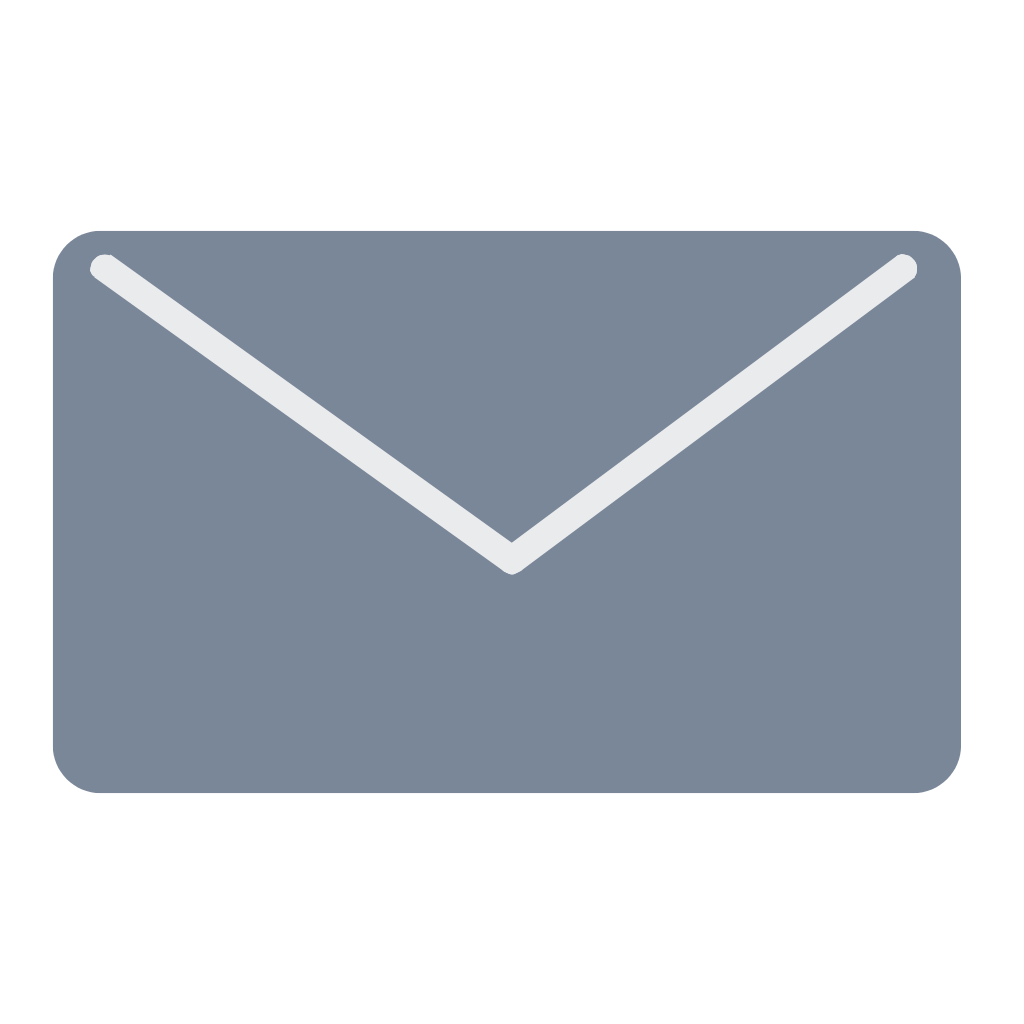
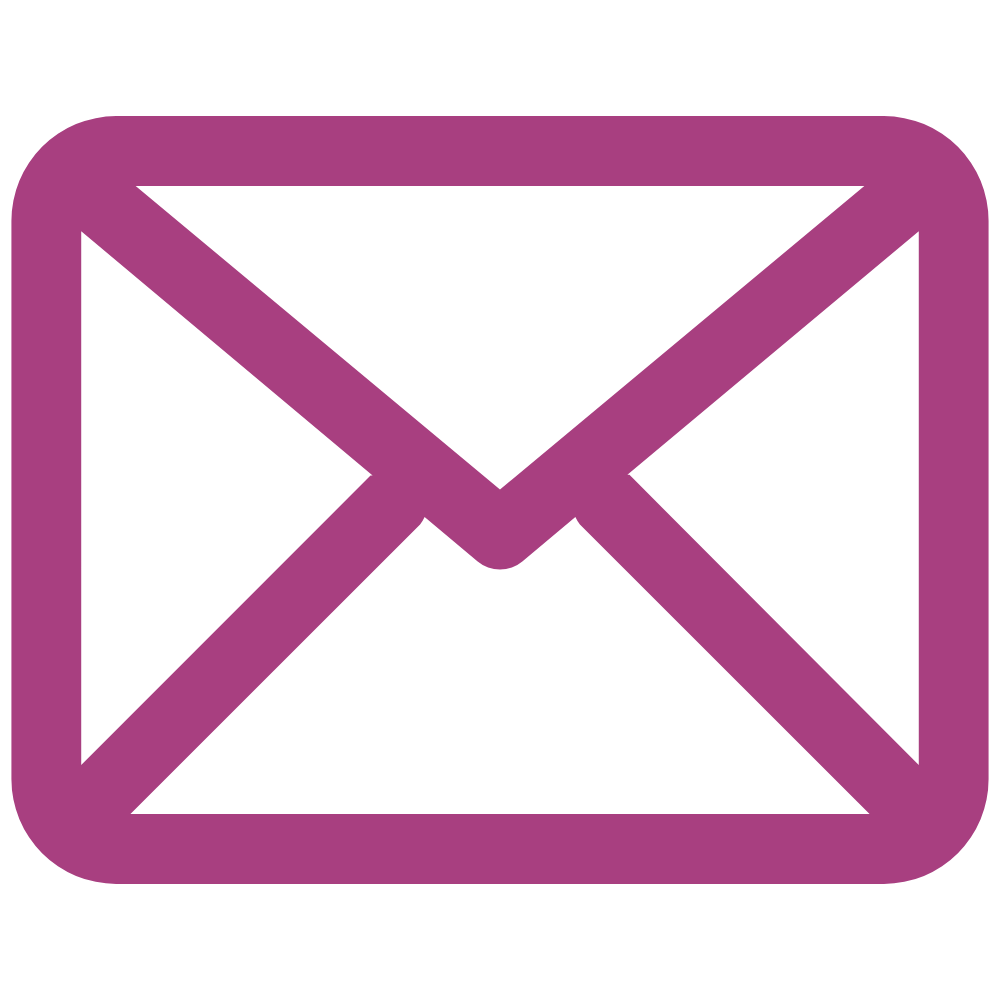
Fixed About me section and added sticky scrolling

diff --git a/src/components/welcome.jsx b/src/components/welcome.jsx
@@ -23,54 +23,53 @@ function Welcome() {
   return (
     <div>
       <CustomHeader />
-      <div className="right-side">
-        <div className="home_background">
-          <div className="main-content">
-            <div className="row_container">
-                <div className="image_wrapper">
-                  <div className="rounded_wrapper">
-                    <img 
-                      src={headshot} 
-                      alt="Personal Headshot"
-                      className="image"
-                    />
+        <div className="right-side">
+          <div className="home_background">
+            <div className="main-content">
+              <section id="about_me">
+                <div className="dark_header">About Me</div>
+                <div className="line"></div>
+                <div className="row_container">
+                  <div className="image_wrapper">
+                    <div className="rounded_wrapper">
+                      <img 
+                        src={headshot} 
+                        alt="Personal Headshot"
+                        className="image"
+                      />
+                    </div>
                   </div>
-                </div>
                   <p>
                     Hello world! My name is <b>Jessica Lin</b>, and welcome to my personal portfolio 
-                    website. I coded this from scratch using JavaScript, React, HTML, and CSS. 
+                    website. I coded this from scratch using JavaScript, React, HTML, and CSS and deployed
+                    it statically using Github pages. This website is best for desktop-sized screens, however it is
+                    fully dynamic for screens of width 150 pixels and greater. 
                     <br />
                     <br />
-                    I am a first-generation <b>software engineer</b> with a liberal arts education 
-                    and an interest in <b>full-stack mobile and web app development</b>. I am currently 
-                    located in Los Angeles, but am open to relocation.
-
-                    I focus on <b>full-stack mobile and web app development</b>, 
-                    building responsive, user-centered products that emphasize usability, 
-                    performance, and clean design. 
+                    I’m a first-generation <b>software engineer</b> studying <b>computer science and business administration at the
+                    University of California, Irvine</b>,  
+                    and am currently based in Los Angeles, California.
                     <br />
                     <br />
-                    I am passionate about creating innovative solutions for complex and meaningful 
-                    problems, and I’m fortunate to have the opportunity to work on these projects 
-                    every day. This website details my experience professionally and personally and 
-                    will give you a glimpse into the things I’ve been working on!
+                    I specialize in <b>full-stack mobile and web app development</b>, with a focus on 
+                    sleek design and high-performance. I feel fortunate that I get to turn ideas into polished, 
+                    intuitive products and <b>tackle complex problems through technical solutions. </b>
+                    This website showcases the professional and personal projects that I have been working on.
                     <br />
+                    <br />
+                    In my freetime, I enjoy keeping myself busy with new hobbies. The list consists of traveling, thrifting, skiing, 
+                    working out, and gaming. Ask me about my crawl from Budapest to Prague!
                     <br />
                     <br />
                   </p>
                 </div >
-              <div className="single_container_55">
-            </div>
-            <div className="row_container">
-                
-                  <br />
-                  <div>
-                  
-                  </div>
-                  <br />
-                  <br />
-                  <br />
-                  <div className="pink_subtitle">About me:</div>
+              </section>
+
+
+              <section id="experience">
+                <div className="dark_header">Experience</div>
+                <div className="line"></div>
+                <div className="row_container">
                   <div className="logo_container">
                     <img
                       src={UtahIcon}
@@ -103,6 +102,7 @@ function Welcome() {
                         JavaScript
                       </div>
                     </div>
+                    
                     <div className="welcome_logo_container">
                       <div className="logo_container">
                         <img src={HTMLIcon} alt="HTML" className="icon" />
@@ -117,7 +117,7 @@ function Welcome() {
                         CSS
                       </div>
                     </div>
-
+                    
                     <br />
                   </div>
                   <br />
@@ -130,7 +130,7 @@ function Welcome() {
                     of I&CS
                   </p>
                   <p>• Accounting Intern - Restaurant and Family Mart</p>
-                <div className="row_container">
+                  <div className="row_container">
                   <p>
                     In my freetime, I enjoy thrifting, gaming, working out, playing
                     poker, and finding new music! Feel free to reach out to me
@@ -141,12 +141,28 @@ function Welcome() {
                     .
                     <br />
                     <br />
-                  </p>
+                    </p>
+                  </div>
                 </div>
-              </div>
+              </section>
+
+
+
+
+              <section id="projects">
+                <div className="dark_header">Projects</div>
+                <div className="line"></div>
+              </section>
+              
+              <section id="contact_me">
+                <div className="dark_header">Contact Me</div>
+                <div className="line"></div>
+              </section>
+            </div>
           </div>
+          
         </div>
-      </div>
+        
       <Footer />
     </div>
   );

diff --git a/src/components/header.jsx b/src/components/header.jsx
@@ -1,11 +1,17 @@
-import Github from "../images/header/github.png";
-import LinkedIn from "../images/header/linkedin.png";
-import JessicaLin from "../images/header/JessicaLin.png";
-
+import email from "../images/header/email.png";
+import github from "../images/header/github.png";
+import linkedin from "../images/header/linkedin.png";
 
 import "../styles/navbar.css"
 
 import { useNavigate } from "react-router-dom";
+
+const sections = [
+  { id: "about_me", label: "About Me" },
+  { id: "experience", label: "Experience" },
+  { id: "projects", label: "Projects" },
+  { id: "contact_me", label: "Contact Me" },
+];
 
 function CustomHeader() {
   const navigate = useNavigate();
@@ -18,6 +24,12 @@ function CustomHeader() {
     navigate("/"); // Navigate to the Welcome page
   };
 
+  const scrollToSection = (id) => {
+    const el = document.getElementById(id);
+    if (!el) return;
+    el.scrollIntoView({ behavior: "smooth", block: "start" });
+  };
+
   return (
     <div>
       <nav className="navbar">
@@ -26,45 +38,34 @@ function CustomHeader() {
           <div className="dark_title">Full Stack Developer</div>
           <div className="dark_title">I build reliable, scalable, and 
             complex web and mobile applications.</div>
-          <p></p>
           <div className="row_container">
-            <div className="navbar-nav-btn-container">
+            <div className="nav-btn-container">
+              {sections.map((section) => (
               <button
-                id="LoadWelcome"
-                className="navbar-nav-btn"
-                onClick={handleWelcomeClick}
-              >About Me
+                key={section.id}
+                className="nav-btn"
+                onClick={() => scrollToSection(section.id)}
+              >
+                {section.label}
               </button>
-              <button
-                id="LoadWelcome"
-                className="navbar-nav-btn"
-                onClick={handleWelcomeClick}
-              >Experience
-              </button>
-              <button className="navbar-nav-btn">Projects</button>
-              <button
-                id="LoadWelcome"
-                className="navbar-nav-btn"
-                onClick={handleWelcomeClick}
-              >Contact Me
-              </button>
+              ))}
             </div>
           </div>
-          <p></p>
+          {/* <p></p> */}
           <div className="row_container">
-            <div className="navbar-nav-icon-container">
-              <button className="navbar-nav-icon">
-                <img src={null} alt="Python" className="icon" />
+            <div className="icon-btn-container">
+              <button className="icon-btn">
+                <img src={email} alt="Email" className="icon" />
               </button>
             </div>
-            <div className="navbar-nav-icon-container">
-              <button className="navbar-nav-icon">
-                <img src={null} alt="Python" className="icon" />
+            <div className="icon-btn-container">
+              <button className="icon-btn">
+                <img src={linkedin} alt="Python" className="icon" />
               </button>
             </div>
-            <div className="navbar-nav-icon-container">
-              <button className="navbar-nav-icon">
-                <img src={null} alt="Python" className="icon" />
+            <div className="icon-btn-container">
+              <button className="icon-btn">
+                <img src={github} alt="Python" className="icon" />
               </button>
             </div>
           </div>

diff --git a/src/styles/navbar.css b/src/styles/navbar.css
@@ -35,35 +35,54 @@
   align-items: center;
 }
 
-.navbar-nav-icon {
-  padding-bottom: 10px;
-  width: 50px;
+.icon-btn-container {
+  margin-left: clamp(0rem, 1.5vw, 2rem);
+  margin-right: clamp(0rem, 1.5vw, 2rem);
 }
 
-.navbar-nav-icon-container {
-  margin: 20px;
+.icon-btn img {
+  height: 100%;
+  object-fit: contain;
+  display: block;
 }
 
-.navbar-nav-btn-container {
+.icon-btn {
+  border: none;
+  background: inherit;
+  padding: 0;
+  margin: 0;
+  line-height: 0;
+  display: flex;
+  justify-content: center;
+  align-items: center;
+  width: clamp(1.5rem, 4vw, 8rem);
+  height: clamp(1.5rem, 4vw, 8rem);
+  display: flex;
+  justify-content: center;
+  align-items: center;
+}
+
+.nav-btn-container {
+  margin: clamp(0rem, 5vw, 1.5rem);
   display: flex;
   flex-direction: column;
   align-items: flex-start;
   width: max-content;
 }
 
-.navbar-nav-btn {
+.nav-btn {
   background: none;
   border: none;
   color: inherit;
-  font-size: clamp(.5rem, 3vw, 1.1rem);
+  /* font-size: clamp(.5rem, 3vw, 1.1rem); */
   cursor: pointer;
   padding: 0;
   padding: 1rem;
-  width: max-content;
+  /* width: max-content; */
   text-align: left;
 }
 
-.navbar-nav-btn:hover {
+.nav-btn:hover {
   color: rgb(152, 152, 152);
   text-decoration: underline;
 }
@@ -79,14 +98,10 @@
     padding-top: 7px;
     width: 120px;
   }
-
-  . {
-    font-size: 11px;
-  }
   
   button {
     padding: 0;
-    padding: 0;
+    margin: 0;
     border: none;
     background: none;
   }

diff --git a/src/styles/text.css b/src/styles/text.css
@@ -20,7 +20,7 @@
   padding-bottom: 20px;
   color: #ff66c4;
   /* font-size: clamp(20px, 4vw, 40px); */
-  font-size: clamp(.8rem, 3vw, 4rem);
+  font-size: clamp(1.5rem, 3vw, 4rem);
   font-family: 'Courier New', Courier, monospace;
   font-weight: 600;
   /* padding-bottom: 5px; */
@@ -32,7 +32,7 @@
   padding-top: 10px;
   padding-bottom: 10px;
   color: #491a37;
-  font-size: clamp(.3rem, 2vw, 2.7rem);
+  font-size: clamp(1rem, 2vw, 2.7rem);
   font-family: 'Courier New', Courier, monospace;
   font-weight: 600;
 }
@@ -44,10 +44,24 @@
   font-size: clamp(.5rem, 3vw, 1rem);
   font-family: 'Courier New', Courier, monospace;
   font-weight: 600;
-  /* padding-bottom: 5px; */
-  /* text-align: left; */
-  /* width: 100%; */
 }
+
+.line {
+  background-color: #491a37;
+  width: 100%;
+  height: 3px;
+}
+
+.dark_header {
+  padding-top: 10px;
+  padding-bottom: 10px;
+  color: #491a37;
+  font-size: clamp(.8rem, 3vw, 1.5rem);
+  font-family: 'Courier New', Courier, monospace;
+  font-weight: 600;
+  text-align: left;
+}
+
 
 /* .subtitle {
   padding-bottom: 10px;

diff --git a/src/styles/images.css b/src/styles/images.css
@@ -27,8 +27,8 @@
 }
 
 .icon {
-  width: 40px; /* or any specific size */
-  padding-right: 10px;
+  width: 40px;
+  padding-right:
 }
 
 .background-image {
